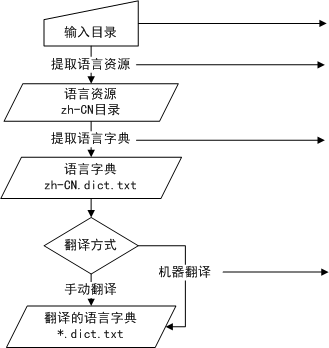
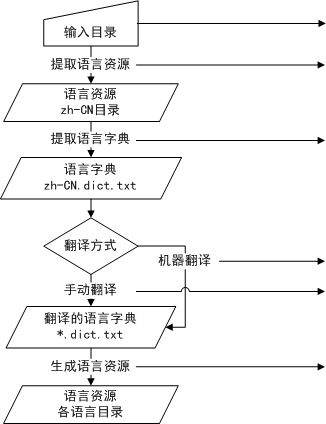
增加导入语言字典功能

diff --git a/Source/Tools/LanguageResourceMaker/MainForm.Designer.cs b/Source/Tools/LanguageResourceMaker/MainForm.Designer.cs
@@ -39,6 +39,9 @@
             this.lblShowLanguageFolder = new System.Windows.Forms.Label();
             this.lblShowLanguageDict = new System.Windows.Forms.Label();
             this.btnDeleteLanguageFolder = new System.Windows.Forms.Button();
+            this.btnImportLanguageDict = new System.Windows.Forms.Button();
+            this.btnGenerateLanguageResource = new System.Windows.Forms.Button();
+            this.lblShowLanguageFolder2 = new System.Windows.Forms.Label();
             this.pnlInputFolder.SuspendLayout();
             this.SuspendLayout();
             // 
@@ -64,7 +67,7 @@
             // 
             // btnAutoTranslateLanguageDict
             // 
-            this.btnAutoTranslateLanguageDict.Location = new System.Drawing.Point(336, 260);
+            this.btnAutoTranslateLanguageDict.Location = new System.Drawing.Point(336, 250);
             this.btnAutoTranslateLanguageDict.Name = "btnAutoTranslateLanguageDict";
             this.btnAutoTranslateLanguageDict.Size = new System.Drawing.Size(130, 23);
             this.btnAutoTranslateLanguageDict.TabIndex = 102;
@@ -147,13 +150,43 @@
             // 
             // btnDeleteLanguageFolder
             // 
-            this.btnDeleteLanguageFolder.Location = new System.Drawing.Point(336, 327);
+            this.btnDeleteLanguageFolder.Location = new System.Drawing.Point(336, 403);
             this.btnDeleteLanguageFolder.Name = "btnDeleteLanguageFolder";
             this.btnDeleteLanguageFolder.Size = new System.Drawing.Size(130, 23);
             this.btnDeleteLanguageFolder.TabIndex = 1007;
             this.btnDeleteLanguageFolder.Text = "删除语言目录";
             this.btnDeleteLanguageFolder.UseVisualStyleBackColor = true;
             this.btnDeleteLanguageFolder.Click += new System.EventHandler(this.btnDeleteLanguageFolder_Click);
+            // 
+            // btnImportLanguageDict
+            // 
+            this.btnImportLanguageDict.Location = new System.Drawing.Point(336, 279);
+            this.btnImportLanguageDict.Name = "btnImportLanguageDict";
+            this.btnImportLanguageDict.Size = new System.Drawing.Size(130, 23);
+            this.btnImportLanguageDict.TabIndex = 103;
+            this.btnImportLanguageDict.Text = "导入翻译结果..";
+            this.btnImportLanguageDict.UseVisualStyleBackColor = true;
+            this.btnImportLanguageDict.Click += new System.EventHandler(this.btnImportLanguageDict_Click);
+            // 
+            // btnGenerateLanguageResource
+            // 
+            this.btnGenerateLanguageResource.Location = new System.Drawing.Point(336, 356);
+            this.btnGenerateLanguageResource.Name = "btnGenerateLanguageResource";
+            this.btnGenerateLanguageResource.Size = new System.Drawing.Size(130, 23);
+            this.btnGenerateLanguageResource.TabIndex = 104;
+            this.btnGenerateLanguageResource.Text = "生成语言资源";
+            this.btnGenerateLanguageResource.UseVisualStyleBackColor = true;
+            this.btnGenerateLanguageResource.Click += new System.EventHandler(this.btnGenerateLanguageResource_Click);
+            // 
+            // lblShowLanguageFolder2
+            // 
+            this.lblShowLanguageFolder2.BackColor = System.Drawing.Color.Transparent;
+            this.lblShowLanguageFolder2.Cursor = System.Windows.Forms.Cursors.Hand;
+            this.lblShowLanguageFolder2.Location = new System.Drawing.Point(2, 387);
+            this.lblShowLanguageFolder2.Name = "lblShowLanguageFolder2";
+            this.lblShowLanguageFolder2.Size = new System.Drawing.Size(177, 35);
+            this.lblShowLanguageFolder2.TabIndex = 1008;
+            this.lblShowLanguageFolder2.Click += new System.EventHandler(this.lblShowLanguageFolder_Click);
             // 
             // MainForm
             // 
@@ -162,6 +195,9 @@
             this.BackgroundImage = global::LanguageResourceMaker.Properties.Resources.background;
             this.BackgroundImageLayout = System.Windows.Forms.ImageLayout.None;
             this.ClientSize = new System.Drawing.Size(484, 454);
+            this.Controls.Add(this.lblShowLanguageFolder2);
+            this.Controls.Add(this.btnGenerateLanguageResource);
+            this.Controls.Add(this.btnImportLanguageDict);
             this.Controls.Add(this.btnDeleteLanguageFolder);
             this.Controls.Add(this.lblShowLanguageDict);
             this.Controls.Add(this.lblShowLanguageFolder);
@@ -196,5 +232,8 @@
         private System.Windows.Forms.Label lblShowLanguageFolder;
         private System.Windows.Forms.Label lblShowLanguageDict;
         private System.Windows.Forms.Button btnDeleteLanguageFolder;
+        private System.Windows.Forms.Button btnImportLanguageDict;
+        private System.Windows.Forms.Button btnGenerateLanguageResource;
+        private System.Windows.Forms.Label lblShowLanguageFolder2;
     }
 }

diff --git a/Source/Tools/LanguageResourceMaker/Feature/ImportLanguageDictForm.Designer.cs b/Source/Tools/LanguageResourceMaker/Feature/ImportLanguageDictForm.Designer.cs
@@ -1,16 +1,16 @@
 namespace LanguageResourceMaker.Feature
 {
-    partial class ExtractLanguageResourceForm
+    partial class ImportLanguageDictForm
     {
         /// <summary>
-        /// 必需的设计器变量。
+        /// Required designer variable.
         /// </summary>
         private System.ComponentModel.IContainer components = null;
 
         /// <summary>
-        /// 清理所有正在使用的资源。
+        /// Clean up any resources being used.
         /// </summary>
-        /// <param name="disposing">如果应释放托管资源，为 true；否则为 false。</param>
+        /// <param name="disposing">true if managed resources should be disposed; otherwise, false.</param>
         protected override void Dispose(bool disposing)
         {
             if (disposing && (components != null))
@@ -20,59 +20,57 @@
             base.Dispose(disposing);
         }
 
-        #region Windows 窗体设计器生成的代码
+        #region Windows Form Designer generated code
 
         /// <summary>
-        /// 设计器支持所需的方法 - 不要
-        /// 使用代码编辑器修改此方法的内容。
+        /// Required method for Designer support - do not modify
+        /// the contents of this method with the code editor.
         /// </summary>
         private void InitializeComponent()
         {
-            this.lblLog = new System.Windows.Forms.Label();
             this.panel1 = new System.Windows.Forms.Panel();
+            this.pbLevel1 = new System.Windows.Forms.ProgressBar();
             this.panel1.SuspendLayout();
             this.SuspendLayout();
-            // 
-            // lblLog
-            // 
-            this.lblLog.Dock = System.Windows.Forms.DockStyle.Fill;
-            this.lblLog.Location = new System.Drawing.Point(0, 0);
-            this.lblLog.Name = "lblLog";
-            this.lblLog.Size = new System.Drawing.Size(280, 55);
-            this.lblLog.TabIndex = 1001;
-            this.lblLog.TextAlign = System.Drawing.ContentAlignment.MiddleLeft;
             // 
             // panel1
             // 
             this.panel1.BorderStyle = System.Windows.Forms.BorderStyle.FixedSingle;
-            this.panel1.Controls.Add(this.lblLog);
+            this.panel1.Controls.Add(this.pbLevel1);
             this.panel1.Dock = System.Windows.Forms.DockStyle.Fill;
             this.panel1.Location = new System.Drawing.Point(0, 0);
             this.panel1.Name = "panel1";
-            this.panel1.Size = new System.Drawing.Size(282, 57);
-            this.panel1.TabIndex = 1003;
+            this.panel1.Size = new System.Drawing.Size(184, 51);
+            this.panel1.TabIndex = 14;
             // 
-            // ExtractLanguageResourceForm
+            // pbLevel1
+            // 
+            this.pbLevel1.Location = new System.Drawing.Point(12, 12);
+            this.pbLevel1.Name = "pbLevel1";
+            this.pbLevel1.Size = new System.Drawing.Size(153, 23);
+            this.pbLevel1.TabIndex = 12;
+            // 
+            // ImportLanguageDictForm
             // 
             this.AutoScaleDimensions = new System.Drawing.SizeF(6F, 12F);
             this.AutoScaleMode = System.Windows.Forms.AutoScaleMode.Font;
-            this.ClientSize = new System.Drawing.Size(282, 57);
+            this.ClientSize = new System.Drawing.Size(184, 51);
             this.Controls.Add(this.panel1);
             this.FormBorderStyle = System.Windows.Forms.FormBorderStyle.None;
-            this.Name = "ExtractLanguageResourceForm";
+            this.Name = "ImportLanguageDictForm";
             this.ShowInTaskbar = false;
             this.StartPosition = System.Windows.Forms.FormStartPosition.CenterScreen;
-            this.Text = "提取语言资源";
+            this.Text = "ImportLanguageDictForm";
             this.TopMost = true;
-            this.Load += new System.EventHandler(this.ExtractLanguageResourceForm_Load);
+            this.Load += new System.EventHandler(this.ImportLanguageDictForm_Load);
             this.panel1.ResumeLayout(false);
             this.ResumeLayout(false);
 
         }
 
         #endregion
-        private System.Windows.Forms.Label lblLog;
+
         private System.Windows.Forms.Panel panel1;
+        private System.Windows.Forms.ProgressBar pbLevel1;
     }
 }
-

diff --git a/Source/Tools/LanguageResourceMaker/Feature/ImportLanguageDictForm.cs b/Source/Tools/LanguageResourceMaker/Feature/ImportLanguageDictForm.cs
@@ -1,0 +1,65 @@
+using System;
+using System.Collections.Generic;
+using System.ComponentModel;
+using System.Data;
+using System.Drawing;
+using System.IO;
+using System.Linq;
+using System.Text;
+using System.Windows.Forms;
+
+namespace LanguageResourceMaker.Feature
+{
+    public partial class ImportLanguageDictForm : Form
+    {
+        private MainForm mainForm;
+
+
+        public ImportLanguageDictForm(MainForm mainForm)
+        {
+            this.mainForm = mainForm;
+            InitializeComponent();
+        }
+
+        private Int32 getLangaugeDictLinesCount(String fileName)
+        {
+            return File.ReadAllLines(fileName)
+                .Where(t => !String.IsNullOrWhiteSpace(t)).Count();
+        }
+
+        private void ImportLanguageDictForm_Load(object sender, EventArgs e)
+        {
+            var ofd = new OpenFileDialog();
+            ofd.Filter = "语言字典文件(*.dict.txt)|*.dict.txt";
+            ofd.Multiselect = true;
+            var dr = ofd.ShowDialog();
+            if (dr == DialogResult.Cancel)
+            {
+                this.Close();
+                return;
+            }
+
+            var srcDictLinesCount = getLangaugeDictLinesCount(mainForm.LanguageDictFile);
+            var fileNames = ofd.FileNames;
+            ofd.Dispose();
+            ofd = null;
+
+            for (int i = 0; i < fileNames.Length; i++)
+            {
+                pbLevel1.Value = (i + 1) * 100 / fileNames.Length;
+                Application.DoEvents();
+                var fileName = fileNames[i];
+                var currentDictLinesCount = getLangaugeDictLinesCount(fileName);
+                if (currentDictLinesCount != srcDictLinesCount)
+                {
+                    MessageBox.Show($"要导入的语言字典文件[{fileName}]与源语言字典文件[{mainForm.LanguageDictFile}]不匹配，已忽略。", Application.ProductName, MessageBoxButtons.OK, MessageBoxIcon.Warning);
+                    continue;
+                }
+                FileInfo fileInfo = new FileInfo(fileName);
+                fileInfo.CopyTo(Path.Combine(mainForm.LanguageFolder, fileInfo.Name), true);
+            }
+            this.DialogResult = DialogResult.OK;
+            this.Close();
+        }
+    }
+}

diff --git a/Source/Tools/LanguageResourceMaker/MainForm.cs b/Source/Tools/LanguageResourceMaker/MainForm.cs
@@ -59,7 +59,9 @@ namespace LanguageResourceMaker
             btnExtractLanguageResource.Enabled = false;
             btnExtractLanguageDict.Enabled = false;
             btnAutoTranslateLanguageDict.Enabled = false;
+            btnImportLanguageDict.Enabled = false;
             btnDeleteLanguageFolder.Enabled = false;
+            btnGenerateLanguageResource.Enabled = false;
 
             if (!Directory.Exists(InputFolder))
                 return;
@@ -73,6 +75,8 @@ namespace LanguageResourceMaker
             if (!File.Exists(LanguageDictFile))
                 return;
             btnAutoTranslateLanguageDict.Enabled = true;
+            btnImportLanguageDict.Enabled = true;
+            btnGenerateLanguageResource.Enabled = true;
         }
 
         public String InputFolder
@@ -110,6 +114,19 @@ namespace LanguageResourceMaker
             if (dr == DialogResult.OK)
                 MessageBox.Show("机器翻译完成！", Application.ProductName, MessageBoxButtons.OK, MessageBoxIcon.Information);
             onInputFolderChanged();
+        }
+
+        private void btnImportLanguageDict_Click(object sender, EventArgs e)
+        {
+            var dr = new ImportLanguageDictForm(this).ShowDialog();
+            if (dr == DialogResult.OK)
+                MessageBox.Show("导入翻译结果完成！", Application.ProductName, MessageBoxButtons.OK, MessageBoxIcon.Information);
+            onInputFolderChanged();
+        }
+
+        private void btnGenerateLanguageResource_Click(object sender, EventArgs e)
+        {
+            MessageBox.Show("To be continue.");
         }
 
         private void btnDeleteLanguageFolder_Click(object sender, EventArgs e)

diff --git a/Source/Tools/LanguageResourceMaker/Feature/AutoTranslateLanguageDictForm.Designer.cs b/Source/Tools/LanguageResourceMaker/Feature/AutoTranslateLanguageDictForm.Designer.cs
@@ -111,7 +111,9 @@
             this.Controls.Add(this.pbLevel1);
             this.Controls.Add(this.btnStart);
             this.Controls.Add(this.lvLanguages);
-            this.FormBorderStyle = System.Windows.Forms.FormBorderStyle.FixedToolWindow;
+            this.FormBorderStyle = System.Windows.Forms.FormBorderStyle.FixedDialog;
+            this.MaximizeBox = false;
+            this.MinimizeBox = false;
             this.Name = "AutoTranslateLanguageDictForm";
             this.StartPosition = System.Windows.Forms.FormStartPosition.CenterScreen;
             this.Text = "机翻语言字典";

diff --git a/Source/Tools/LanguageResourceMaker/Feature/AutoTranslateLanguageDictForm.cs b/Source/Tools/LanguageResourceMaker/Feature/AutoTranslateLanguageDictForm.cs
@@ -36,6 +36,15 @@ namespace LanguageResourceMaker.Feature
             }
             cbTranslator.SelectedIndex = 0;
         }
+        protected override bool ProcessCmdKey(ref Message msg, Keys keyData)
+        {
+            if (keyData == Keys.Escape)
+            {
+                this.Close();
+                return true;
+            }
+            return base.ProcessCmdKey(ref msg, keyData);
+        }
 
         private void cbTranslator_SelectedIndexChanged(object sender, EventArgs e)
         {
